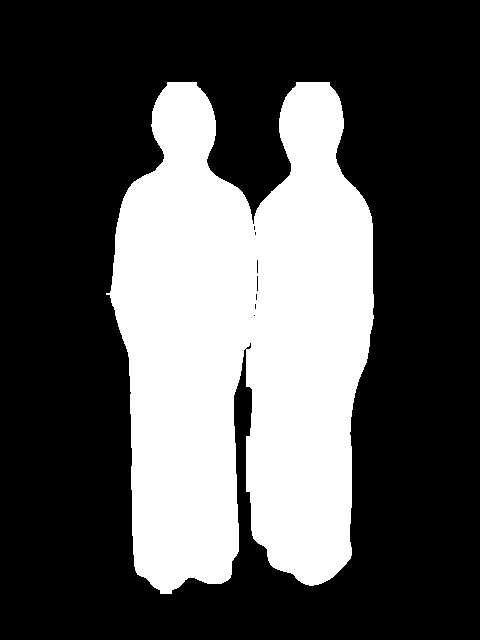
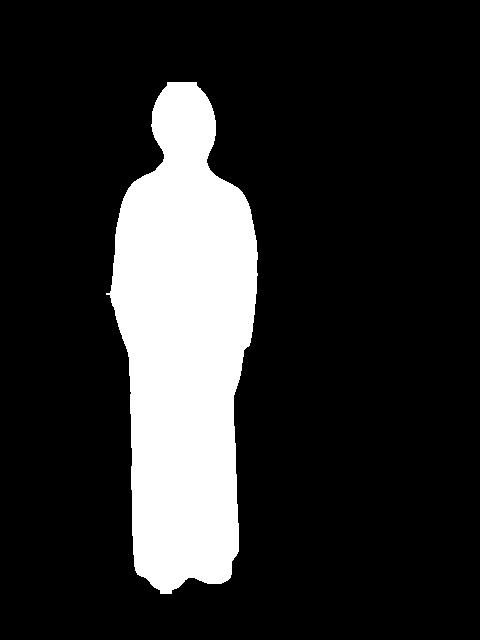
get segmentation of the person

Changed region(s): [[0.5, 0.125, 0.7812, 0.9375]]

diff --git a/test.py b/test.py
@@ -13,25 +13,15 @@ import torch
 model = YOLO("yolov8x-seg.pt")
 results = model.predict("input.jpg", save=True, show=True)
 print("-----results-----")
-# for i in range(len(results)):
-for result in results:
-    masks = result.masks.data
-    boxes = result.boxes.data
-    # extract classes
-    clss = boxes[:, 5]
-    # get indices of results where class is 0 (people in COCO)
-    people_indices = torch.where(clss == 0)
-    # use these indices to extract the relevant masks
-    people_masks = masks[people_indices]
-    # scale for visualizing results
-    people_mask = torch.any(people_masks, dim=0).int() * 255
-    # save to file
-    print(people_mask.cpu().numpy())
-    cv2.imwrite('merged_segs.jpg', people_mask.cpu().numpy().astype(np.uint8))
-    # print(type(results[i].masks.data))
-    # print(results[i].masks.data.shape)
-    # # cv2.imwrite("mask"+str(i)+".jpg", results[i].masks.cpu().numpy().masks[0])
-    # cv2.imwrite("mask"+str(i)+".jpg", results[i].masks.data[0])
+
+masks = results[0].masks.data
+boxes = results[0].boxes.data
+clss = boxes[:, 5]
+conf = boxes[:, 4]
+people_indices = torch.where(clss == 0)
+people_id = torch.argmax(conf[people_indices])
+people_mask = masks[people_id].int() * 255
+cv2.imwrite('merged_segs.jpg', people_mask.cpu().numpy().astype(np.uint8))
 
 image = cv2.imread("input.jpg")
 image = cv2.cvtColor(image, cv2.COLOR_BGR2GRAY)
